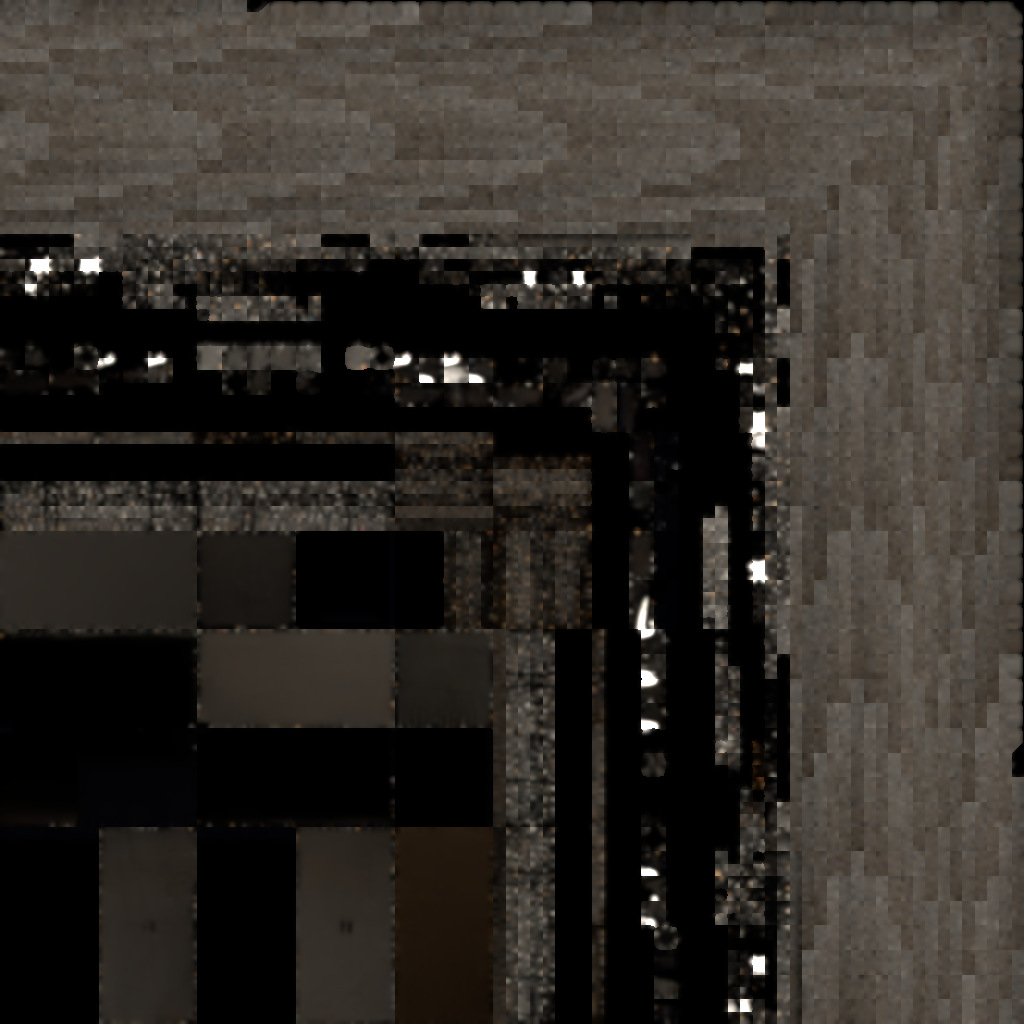
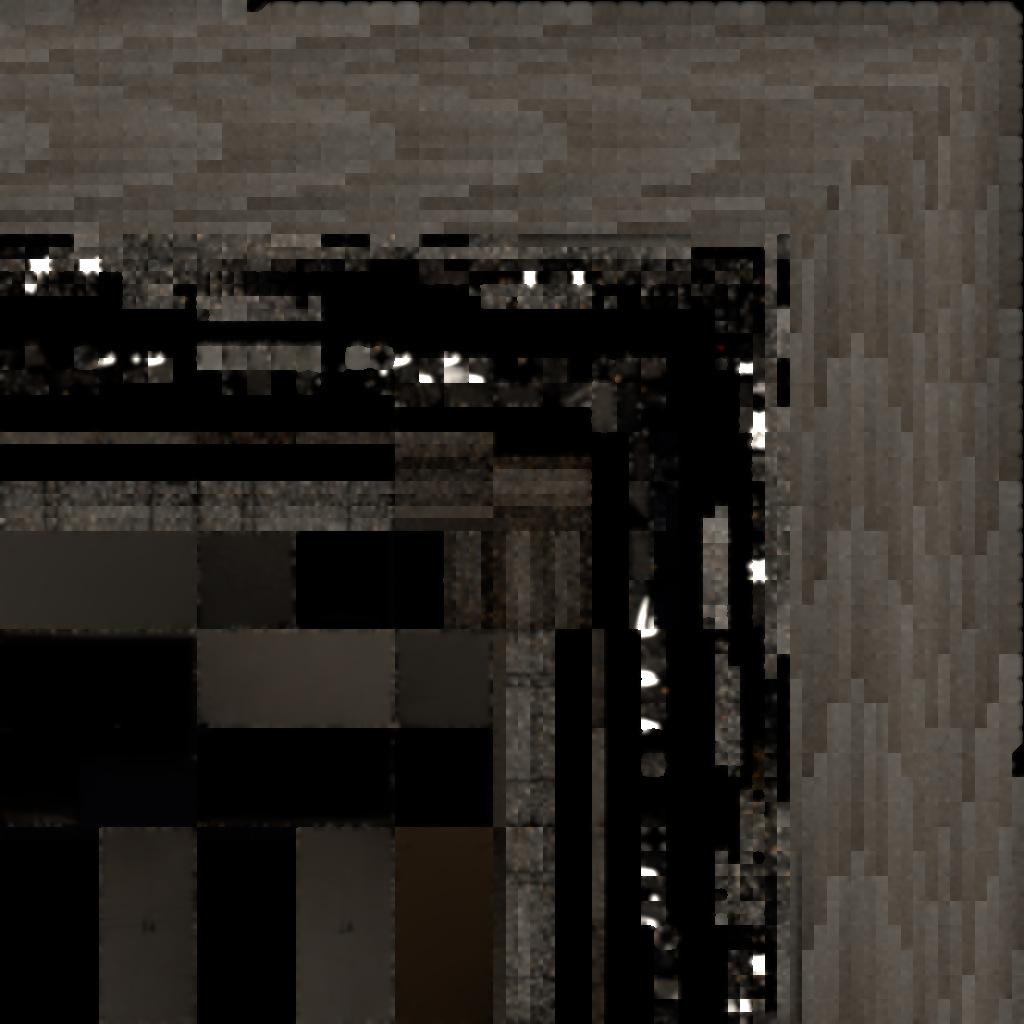
Rebake at 110 spp; walls filtered per UV island at full 2048 res (no more mosaic)
Claude-Session: https://claude.ai/code/session_01BJR4AyphjLcfBT9JN8iViV

diff --git a/room.html b/room.html
@@ -319,7 +319,7 @@ body{color:var(--ink);background:#fff}
 <script>
 (async function(){
 const GATE_TO='';   /* set on a page that should only take the name and then open the full room */
-const OPT='C',ROOMS={C:"room.html"},ASSET='',WORKS_DIR='c/',LAY={"room":{"W":5.6769,"H":3.3655,"LM":8.889999999999999,"CT":0.127,"LK":3.6068,"LT":12.6238,"PASS":1.1,"COVE":0.6,"CYC_FACE":8.889999999999999,"CYC_BACK":9.017,"WINS":[{"cx":0.85,"w":1.3},{"cx":4.57,"w":1.5}],"WB":0.8,"WH":2.2,"ENTRY":{"z0":10.32,"z1":12.25,"h":2.2},"DOOR2":{"z0":10.32,"z1":12.25,"h":2.2},"BLUE":{"x0":0.15,"x1":1.05,"h":2.15},"VANITY_X":3.3,"HANG":1.4478,"TRACK_X":[1.35,4.3269],"TRACK_DZ":10.85,"TRACK_H":3.0655,"PW":[2.54,2.45,0.1]},"works":{"01":{"t":"Eva","s":"Portraits","iw":18,"ih":24,"ow":0.59944,"oh":0.75184},"02":{"t":"Untitled","s":"Portraits","iw":18,"ih":24,"ow":0.59944,"oh":0.75184},"h1":{"t":"Haruma","s":"Portraits","iw":18,"ih":24,"ow":0.59944,"oh":0.75184},"03":{"t":"Odyssey","s":"Odyssey","iw":28,"ih":36,"ow":0.85344,"oh":1.05664},"d1":{"t":"Odyssey","s":"Odyssey","iw":32,"ih":20,"dip":1,"ow":0.95504,"oh":0.65024},"d2":{"t":"Odyssey","s":"Odyssey","iw":32,"ih":20,"dip":1,"ow":0.95504,"oh":0.65024},"d3":{"t":"Odyssey","s":"Odyssey","iw":32,"ih":20,"dip":1,"ow":0.95504,"oh":0.65024},"13":{"t":"Lune Blanche","s":"Lune Blanche","iw":18,"ih":24,"ow":0.59944,"oh":0.75184},"e2":{"t":"Lune Blanche","s":"Lune Blanche","iw":18,"ih":24,"ow":0.59944,"oh":0.75184},"e3":{"t":"Lune Blanche","s":"Lune Blanche","iw":18,"ih":24,"ow":0.59944,"oh":0.75184},"e4":{"t":"Lune Blanche","s":"Lune Blanche","iw":18,"ih":24,"ow":0.59944,"oh":0.75184},"e5":{"t":"Lune Blanche","s":"Lune Blanche","iw":18,"ih":24,"ow":0.59944,"oh":0.75184},"r6":{"t":"Redacted","s":"Redacted","iw":32,"ih":24,"ow":0.95504,"oh":0.75184},"12":{"t":"Redacted","s":"Redacted","iw":18,"ih":24,"ow":0.59944,"oh":0.75184},"rb":{"t":"Redacted","s":"Redacted","iw":18,"ih":24,"ow":0.59944,"oh":0.75184},"rc":{"t":"Redacted","s":"Redacted","iw":18,"ih":24,"ow":0.59944,"oh":0.75184},"rd":{"t":"Redacted","s":"Redacted","iw":18,"ih":24,"ow":0.59944,"oh":0.75184}},"tour":["03","d1","d2","d3","13","e2","e3","e4","e5","r6","rb","12","rc","rd","01","02","h1"],"A":{"name":"A","wall":null,"place":{"01":[1.75,9.017,"s",1.4478],"02":[4.75,9.017,"s",1.4478],"h1":[4.75,12.6238,"n",1.4478],"03":[0.0,8.00328,"e",1.4478],"d1":[0.0,6.85774,"e",1.4478],"d2":[0.0,5.6613999999999995,"e",1.4478],"d3":[0.0,4.465059999999999,"e",1.4478],"13":[2.66,0.0,"s",1.5],"e2":[5.6769,0.95,"w",1.4478],"e3":[5.6769,2.45,"w",1.4478],"e4":[5.6769,3.95,"w",1.4478],"e5":[5.6769,5.45,"w",1.4478],"rb":[4.73761,8.889999999999999,"n",1.4478],"12":[3.83817,8.889999999999999,"n",1.4478],"rc":[2.9387299999999996,8.889999999999999,"n",1.4478],"rd":[2.0392899999999994,8.889999999999999,"n",1.4478],"r6":[5.6769,7.85,"w",1.4478]},"spots":[{"id":"01","pos":[1.75,3.0055,10.85],"target":[1.75,1.3978,9.017]},{"id":"02","pos":[4.75,3.0055,10.85],"target":[4.75,1.3978,9.017]},{"id":"h1","pos":[4.75,3.0055,10.85],"target":[4.75,1.3978,12.6238]},{"id":"03","pos":[1.35,3.0055,8.00328],"target":[0.0,1.3978,8.00328]},{"id":"d1","pos":[1.35,3.0055,6.85774],"target":[0.0,1.3978,6.85774]},{"id":"d2","pos":[1.35,3.0055,5.6613999999999995],"target":[0.0,1.3978,5.6613999999999995]},{"id":"d3","pos":[1.35,3.0055,4.465059999999999],"target":[0.0,1.3978,4.465059999999999]},{"id":"13","pos":[1.35,3.0055,1.45],"target":[2.66,1.45,0.0]},{"id":"e2","pos":[4.3269,3.0055,0.95],"target":[5.6769,1.3978,0.95]},{"id":"e3","pos":[4.3269,3.0055,2.45],"target":[5.6769,1.3978,2.45]},{"id":"e4","pos":[4.3269,3.0055,3.95],"target":[5.6769,1.3978,3.95]},{"id":"e5","pos":[4.3269,3.0055,5.45],"target":[5.6769,1.3978,5.45]},{"id":"rb","pos":[4.3269,3.0055,7.439999999999999],"target":[4.73761,1.3978,8.889999999999999]},{"id":"12","pos":[4.3269,3.0055,7.439999999999999],"target":[3.83817,1.3978,8.889999999999999]},{"id":"rc","pos":[4.3269,3.0055,7.439999999999999],"target":[2.9387299999999996,1.3978,8.889999999999999]},{"id":"rd","pos":[1.35,3.0055,7.439999999999999],"target":[2.0392899999999994,1.3978,8.889999999999999]},{"id":"r6","pos":[4.3269,3.0055,7.85],"target":[5.6769,1.3978,7.85]},{"id":"title0","pos":[1.422,3.0055,10.85],"target":[1.422,1.61,12.6238]},{"id":"title1","pos":[3.078,3.0055,10.85],"target":[3.078,1.61,12.6238]}],"bench":[0.27,1.75,"z"],"title":[0.45,4.05,1.36,1.86],"works":null,"tour":null},"B":{"name":"B","wall":[3.1369,5.6769,3.25,3.3499999999999996],"place":{"01":[1.75,9.017,"s",1.4478],"02":[4.75,9.017,"s",1.4478],"h1":[4.75,12.6238,"n",1.4478],"03":[0.0,8.00328,"e",1.4478],"d1":[0.0,6.85774,"e",1.4478],"d2":[0.0,5.6613999999999995,"e",1.4478],"d3":[0.0,4.465059999999999,"e",1.4478],"13":[2.66,0.0,"s",1.5],"e2":[5.6769,0.95,"w",1.4478],"e3":[5.6769,2.3,"w",1.4478],"e4":[5.0569,3.25,"n",1.4478],"e5":[3.8769,3.25,"n",1.4478],"rb":[4.73761,8.889999999999999,"n",1.4478],"12":[3.83817,8.889999999999999,"n",1.4478],"rc":[2.9387299999999996,8.889999999999999,"n",1.4478],"rd":[2.0392899999999994,8.889999999999999,"n",1.4478],"r6":[5.6769,7.85,"w",1.4478]},"spots":[{"id":"01","pos":[1.75,3.0055,10.85],"target":[1.75,1.3978,9.017]},{"id":"02","pos":[4.75,3.0055,10.85],"target":[4.75,1.3978,9.017]},{"id":"h1","pos":[4.75,3.0055,10.85],"target":[4.75,1.3978,12.6238]},{"id":"03","pos":[1.35,3.0055,8.00328],"target":[0.0,1.3978,8.00328]},{"id":"d1","pos":[1.35,3.0055,6.85774],"target":[0.0,1.3978,6.85774]},{"id":"d2","pos":[1.35,3.0055,5.6613999999999995],"target":[0.0,1.3978,5.6613999999999995]},{"id":"d3","pos":[1.35,3.0055,4.465059999999999],"target":[0.0,1.3978,4.465059999999999]},{"id":"13","pos":[1.35,3.0055,1.45],"target":[2.66,1.45,0.0]},{"id":"e2","pos":[4.3269,3.0055,0.95],"target":[5.6769,1.3978,0.95]},{"id":"e3","pos":[4.3269,3.0055,2.3],"target":[5.6769,1.3978,2.3]},{"id":"e4","pos":[4.3269,3.0055,1.8],"target":[5.0569,1.3978,3.25]},{"id":"e5","pos":[4.3269,3.0055,1.8],"target":[3.8769,1.3978,3.25]},{"id":"rb","pos":[4.3269,3.0055,7.439999999999999],"target":[4.73761,1.3978,8.889999999999999]},{"id":"12","pos":[4.3269,3.0055,7.439999999999999],"target":[3.83817,1.3978,8.889999999999999]},{"id":"rc","pos":[4.3269,3.0055,7.439999999999999],"target":[2.9387299999999996,1.3978,8.889999999999999]},{"id":"rd","pos":[1.35,3.0055,7.439999999999999],"target":[2.0392899999999994,1.3978,8.889999999999999]},{"id":"r6","pos":[4.3269,3.0055,7.85],"target":[5.6769,1.3978,7.85]},{"id":"title0","pos":[1.422,3.0055,10.85],"target":[1.422,1.61,12.6238]},{"id":"title1","pos":[3.078,3.0055,10.85],"target":[3.078,1.61,12.6238]}],"bench":[5.4069,4.75,"z"],"title":[0.45,4.05,1.36,1.86],"works":null,"tour":null},"C":{"name":"C","wall":null,"place":{"01":[1.75,9.017,"s",1.4478],"02":[4.75,9.017,"s",1.4478],"h1":[3.85,12.6238,"n",1.4478],"03":[0.0,8.50328,"e",1.4478],"d1":[0.0,7.35774,"e",1.4478],"d2":[0.0,6.1613999999999995,"e",1.4478],"d3":[0.0,4.965059999999999,"e",1.4478],"13":[2.66,0.0,"s",1.4478],"e2":[5.6769,0.95,"w",1.4478],"e3":[5.6769,2.45,"w",1.4478],"e4":[5.6769,3.95,"w",1.4478],"e5":[5.6769,5.45,"w",1.4478],"rb":[4.62331,8.35,"n",1.4478],"12":[3.8000699999999994,8.35,"n",1.4478],"rc":[2.976829999999999,8.35,"n",1.4478],"rd":[2.153589999999999,8.35,"n",1.4478],"r6":[5.6769,7.85,"w",1.4478]},"spots":[{"id":"01","pos":[1.75,3.0055,10.85],"target":[1.75,1.3978,9.017]},{"id":"02","pos":[4.75,3.0055,10.85],"target":[4.75,1.3978,9.017]},{"id":"h1","pos":[4.75,3.0055,10.85],"target":[4.75,1.3978,12.6238]},{"id":"03","pos":[1.35,3.0055,8.00328],"target":[0.0,1.3978,8.00328]},{"id":"d1","pos":[1.35,3.0055,6.85774],"target":[0.0,1.3978,6.85774]},{"id":"d2","pos":[1.35,3.0055,5.6613999999999995],"target":[0.0,1.3978,5.6613999999999995]},{"id":"d3","pos":[1.35,3.0055,4.465059999999999],"target":[0.0,1.3978,4.465059999999999]},{"id":"13","pos":[1.35,3.0055,1.45],"target":[2.66,1.3978,0.0]},{"id":"e2","pos":[4.3269,3.0055,0.95],"target":[5.6769,1.3978,0.95]},{"id":"e3","pos":[4.3269,3.0055,2.45],"target":[5.6769,1.3978,2.45]},{"id":"e4","pos":[4.3269,3.0055,3.95],"target":[5.6769,1.3978,3.95]},{"id":"e5","pos":[4.3269,3.0055,5.45],"target":[5.6769,1.3978,5.45]},{"id":"rb","pos":[4.3269,3.0055,7.439999999999999],"target":[4.62331,1.3978,8.889999999999999]},{"id":"12","pos":[4.3269,3.0055,7.439999999999999],"target":[3.8000699999999994,1.3978,8.889999999999999]},{"id":"rc","pos":[4.3269,3.0055,7.439999999999999],"target":[2.976829999999999,1.3978,8.889999999999999]},{"id":"rd","pos":[1.35,3.0055,7.439999999999999],"target":[2.153589999999999,1.3978,8.889999999999999]},{"id":"r6","pos":[4.3269,3.0055,7.85],"target":[5.6769,1.3978,7.85]},{"id":"title0","pos":[1.422,3.0055,10.85],"target":[1.422,1.61,12.6238]},{"id":"title1","pos":[3.078,3.0055,10.85],"target":[3.078,1.61,12.6238]}],"bench":null,"title":[1.4205999999999999,1.9794,1.016,1.8796],"works":{"01":{"t":"Eva","s":"Portraits","iw":15,"ih":20,"ow":0.52324,"oh":0.65024},"02":{"t":"Untitled","s":"Portraits","iw":15,"ih":20,"ow":0.52324,"oh":0.65024},"h1":{"t":"Haruma","s":"Portraits","iw":16,"ih":20,"ow":0.54864,"oh":0.65024},"03":{"t":"Odyssey","s":"Odyssey","iw":28,"ih":36,"ow":0.85344,"oh":1.05664},"d1":{"t":"Odyssey","s":"Odyssey","iw":32,"ih":20,"dip":1,"ow":0.95504,"oh":0.65024},"d2":{"t":"Odyssey","s":"Odyssey","iw":32,"ih":20,"dip":1,"ow":0.95504,"oh":0.65024},"d3":{"t":"Odyssey","s":"Odyssey","iw":32,"ih":20,"dip":1,"ow":0.95504,"oh":0.65024},"13":{"t":"Lune Blanche","s":"Lune Blanche","iw":24,"ih":30,"ow":0.75184,"oh":0.90424},"e2":{"t":"Lune Blanche","s":"Lune Blanche","iw":16,"ih":20,"ow":0.54864,"oh":0.65024},"e3":{"t":"Lune Blanche","s":"Lune Blanche","iw":16,"ih":20,"ow":0.54864,"oh":0.65024},"e4":{"t":"Lune Blanche","s":"Lune Blanche","iw":16,"ih":20,"ow":0.54864,"oh":0.65024},"e5":{"t":"Lune Blanche","s":"Lune Blanche","iw":16,"ih":20,"ow":0.54864,"oh":0.65024},"r6":{"t":"Redacted","s":"Redacted","iw":26.667,"ih":20,"ow":0.8195818,"oh":0.65024},"12":{"t":"Redacted","s":"Redacted","iw":15,"ih":20,"ow":0.52324,"oh":0.65024},"rb":{"t":"Redacted","s":"Redacted","iw":15,"ih":20,"ow":0.52324,"oh":0.65024},"rc":{"t":"Redacted","s":"Redacted","iw":15,"ih":20,"ow":0.52324,"oh":0.65024},"rd":{"t":"Redacted","s":"Redacted","iw":15,"ih":20,"ow":0.52324,"oh":0.65024}},"tour":null,"gb":null,"hung":["rb","12","rc","rd"],"pipe":{"z":8.35,"h":2.9},"obs":[[4.3869,5.6769,11.3338,12.6238],[0,0.64,0,1.93],[0.42,1.48,0.42,1.48],[1.2999999999999998,2.1,1.21,3.09]]}},LMK=5.0254;
+const OPT='C',ROOMS={C:"room.html"},ASSET='',WORKS_DIR='c/',LAY={"room":{"W":5.6769,"H":3.3655,"LM":8.889999999999999,"CT":0.127,"LK":3.6068,"LT":12.6238,"PASS":1.1,"COVE":0.6,"CYC_FACE":8.889999999999999,"CYC_BACK":9.017,"WINS":[{"cx":0.85,"w":1.3},{"cx":4.57,"w":1.5}],"WB":0.8,"WH":2.2,"ENTRY":{"z0":10.32,"z1":12.25,"h":2.2},"DOOR2":{"z0":10.32,"z1":12.25,"h":2.2},"BLUE":{"x0":0.15,"x1":1.05,"h":2.15},"VANITY_X":3.3,"HANG":1.4478,"TRACK_X":[1.35,4.3269],"TRACK_DZ":10.85,"TRACK_H":3.0655,"PW":[2.54,2.45,0.1]},"works":{"01":{"t":"Eva","s":"Portraits","iw":18,"ih":24,"ow":0.59944,"oh":0.75184},"02":{"t":"Untitled","s":"Portraits","iw":18,"ih":24,"ow":0.59944,"oh":0.75184},"h1":{"t":"Haruma","s":"Portraits","iw":18,"ih":24,"ow":0.59944,"oh":0.75184},"03":{"t":"Odyssey","s":"Odyssey","iw":28,"ih":36,"ow":0.85344,"oh":1.05664},"d1":{"t":"Odyssey","s":"Odyssey","iw":32,"ih":20,"dip":1,"ow":0.95504,"oh":0.65024},"d2":{"t":"Odyssey","s":"Odyssey","iw":32,"ih":20,"dip":1,"ow":0.95504,"oh":0.65024},"d3":{"t":"Odyssey","s":"Odyssey","iw":32,"ih":20,"dip":1,"ow":0.95504,"oh":0.65024},"13":{"t":"Lune Blanche","s":"Lune Blanche","iw":18,"ih":24,"ow":0.59944,"oh":0.75184},"e2":{"t":"Lune Blanche","s":"Lune Blanche","iw":18,"ih":24,"ow":0.59944,"oh":0.75184},"e3":{"t":"Lune Blanche","s":"Lune Blanche","iw":18,"ih":24,"ow":0.59944,"oh":0.75184},"e4":{"t":"Lune Blanche","s":"Lune Blanche","iw":18,"ih":24,"ow":0.59944,"oh":0.75184},"e5":{"t":"Lune Blanche","s":"Lune Blanche","iw":18,"ih":24,"ow":0.59944,"oh":0.75184},"r6":{"t":"Redacted","s":"Redacted","iw":32,"ih":24,"ow":0.95504,"oh":0.75184},"12":{"t":"Redacted","s":"Redacted","iw":18,"ih":24,"ow":0.59944,"oh":0.75184},"rb":{"t":"Redacted","s":"Redacted","iw":18,"ih":24,"ow":0.59944,"oh":0.75184},"rc":{"t":"Redacted","s":"Redacted","iw":18,"ih":24,"ow":0.59944,"oh":0.75184},"rd":{"t":"Redacted","s":"Redacted","iw":18,"ih":24,"ow":0.59944,"oh":0.75184}},"tour":["03","d1","d2","d3","13","e2","e3","e4","e5","r6","rb","12","rc","rd","01","02","h1"],"A":{"name":"A","wall":null,"place":{"01":[1.75,9.017,"s",1.4478],"02":[4.75,9.017,"s",1.4478],"h1":[4.75,12.6238,"n",1.4478],"03":[0.0,8.00328,"e",1.4478],"d1":[0.0,6.85774,"e",1.4478],"d2":[0.0,5.6613999999999995,"e",1.4478],"d3":[0.0,4.465059999999999,"e",1.4478],"13":[2.66,0.0,"s",1.5],"e2":[5.6769,0.95,"w",1.4478],"e3":[5.6769,2.45,"w",1.4478],"e4":[5.6769,3.95,"w",1.4478],"e5":[5.6769,5.45,"w",1.4478],"rb":[4.73761,8.889999999999999,"n",1.4478],"12":[3.83817,8.889999999999999,"n",1.4478],"rc":[2.9387299999999996,8.889999999999999,"n",1.4478],"rd":[2.0392899999999994,8.889999999999999,"n",1.4478],"r6":[5.6769,7.85,"w",1.4478]},"spots":[{"id":"01","pos":[1.75,3.0055,10.85],"target":[1.75,1.3978,9.017]},{"id":"02","pos":[4.75,3.0055,10.85],"target":[4.75,1.3978,9.017]},{"id":"h1","pos":[4.75,3.0055,10.85],"target":[4.75,1.3978,12.6238]},{"id":"03","pos":[1.35,3.0055,8.00328],"target":[0.0,1.3978,8.00328]},{"id":"d1","pos":[1.35,3.0055,6.85774],"target":[0.0,1.3978,6.85774]},{"id":"d2","pos":[1.35,3.0055,5.6613999999999995],"target":[0.0,1.3978,5.6613999999999995]},{"id":"d3","pos":[1.35,3.0055,4.465059999999999],"target":[0.0,1.3978,4.465059999999999]},{"id":"13","pos":[1.35,3.0055,1.45],"target":[2.66,1.45,0.0]},{"id":"e2","pos":[4.3269,3.0055,0.95],"target":[5.6769,1.3978,0.95]},{"id":"e3","pos":[4.3269,3.0055,2.45],"target":[5.6769,1.3978,2.45]},{"id":"e4","pos":[4.3269,3.0055,3.95],"target":[5.6769,1.3978,3.95]},{"id":"e5","pos":[4.3269,3.0055,5.45],"target":[5.6769,1.3978,5.45]},{"id":"rb","pos":[4.3269,3.0055,7.439999999999999],"target":[4.73761,1.3978,8.889999999999999]},{"id":"12","pos":[4.3269,3.0055,7.439999999999999],"target":[3.83817,1.3978,8.889999999999999]},{"id":"rc","pos":[4.3269,3.0055,7.439999999999999],"target":[2.9387299999999996,1.3978,8.889999999999999]},{"id":"rd","pos":[1.35,3.0055,7.439999999999999],"target":[2.0392899999999994,1.3978,8.889999999999999]},{"id":"r6","pos":[4.3269,3.0055,7.85],"target":[5.6769,1.3978,7.85]},{"id":"title0","pos":[1.422,3.0055,10.85],"target":[1.422,1.61,12.6238]},{"id":"title1","pos":[3.078,3.0055,10.85],"target":[3.078,1.61,12.6238]}],"bench":[0.27,1.75,"z"],"title":[0.45,4.05,1.36,1.86],"works":null,"tour":null},"B":{"name":"B","wall":[3.1369,5.6769,3.25,3.3499999999999996],"place":{"01":[1.75,9.017,"s",1.4478],"02":[4.75,9.017,"s",1.4478],"h1":[4.75,12.6238,"n",1.4478],"03":[0.0,8.00328,"e",1.4478],"d1":[0.0,6.85774,"e",1.4478],"d2":[0.0,5.6613999999999995,"e",1.4478],"d3":[0.0,4.465059999999999,"e",1.4478],"13":[2.66,0.0,"s",1.5],"e2":[5.6769,0.95,"w",1.4478],"e3":[5.6769,2.3,"w",1.4478],"e4":[5.0569,3.25,"n",1.4478],"e5":[3.8769,3.25,"n",1.4478],"rb":[4.73761,8.889999999999999,"n",1.4478],"12":[3.83817,8.889999999999999,"n",1.4478],"rc":[2.9387299999999996,8.889999999999999,"n",1.4478],"rd":[2.0392899999999994,8.889999999999999,"n",1.4478],"r6":[5.6769,7.85,"w",1.4478]},"spots":[{"id":"01","pos":[1.75,3.0055,10.85],"target":[1.75,1.3978,9.017]},{"id":"02","pos":[4.75,3.0055,10.85],"target":[4.75,1.3978,9.017]},{"id":"h1","pos":[4.75,3.0055,10.85],"target":[4.75,1.3978,12.6238]},{"id":"03","pos":[1.35,3.0055,8.00328],"target":[0.0,1.3978,8.00328]},{"id":"d1","pos":[1.35,3.0055,6.85774],"target":[0.0,1.3978,6.85774]},{"id":"d2","pos":[1.35,3.0055,5.6613999999999995],"target":[0.0,1.3978,5.6613999999999995]},{"id":"d3","pos":[1.35,3.0055,4.465059999999999],"target":[0.0,1.3978,4.465059999999999]},{"id":"13","pos":[1.35,3.0055,1.45],"target":[2.66,1.45,0.0]},{"id":"e2","pos":[4.3269,3.0055,0.95],"target":[5.6769,1.3978,0.95]},{"id":"e3","pos":[4.3269,3.0055,2.3],"target":[5.6769,1.3978,2.3]},{"id":"e4","pos":[4.3269,3.0055,1.8],"target":[5.0569,1.3978,3.25]},{"id":"e5","pos":[4.3269,3.0055,1.8],"target":[3.8769,1.3978,3.25]},{"id":"rb","pos":[4.3269,3.0055,7.439999999999999],"target":[4.73761,1.3978,8.889999999999999]},{"id":"12","pos":[4.3269,3.0055,7.439999999999999],"target":[3.83817,1.3978,8.889999999999999]},{"id":"rc","pos":[4.3269,3.0055,7.439999999999999],"target":[2.9387299999999996,1.3978,8.889999999999999]},{"id":"rd","pos":[1.35,3.0055,7.439999999999999],"target":[2.0392899999999994,1.3978,8.889999999999999]},{"id":"r6","pos":[4.3269,3.0055,7.85],"target":[5.6769,1.3978,7.85]},{"id":"title0","pos":[1.422,3.0055,10.85],"target":[1.422,1.61,12.6238]},{"id":"title1","pos":[3.078,3.0055,10.85],"target":[3.078,1.61,12.6238]}],"bench":[5.4069,4.75,"z"],"title":[0.45,4.05,1.36,1.86],"works":null,"tour":null},"C":{"name":"C","wall":null,"place":{"01":[1.75,9.017,"s",1.4478],"02":[4.75,9.017,"s",1.4478],"h1":[3.85,12.6238,"n",1.4478],"03":[0.0,8.50328,"e",1.4478],"d1":[0.0,7.35774,"e",1.4478],"d2":[0.0,6.1613999999999995,"e",1.4478],"d3":[0.0,4.965059999999999,"e",1.4478],"13":[2.66,0.0,"s",1.4478],"e2":[5.6769,0.95,"w",1.4478],"e3":[5.6769,2.45,"w",1.4478],"e4":[5.6769,3.95,"w",1.4478],"e5":[5.6769,5.45,"w",1.4478],"rb":[4.62331,8.35,"n",1.4478],"12":[3.8000699999999994,8.35,"n",1.4478],"rc":[2.976829999999999,8.35,"n",1.4478],"rd":[2.153589999999999,8.35,"n",1.4478],"r6":[5.6769,7.85,"w",1.4478]},"spots":[{"id":"01","pos":[1.75,3.0055,10.85],"target":[1.75,1.3978,9.017]},{"id":"02","pos":[4.75,3.0055,10.85],"target":[4.75,1.3978,9.017]},{"id":"h1","pos":[4.75,3.0055,10.85],"target":[4.75,1.3978,12.6238]},{"id":"03","pos":[1.35,3.0055,8.00328],"target":[0.0,1.3978,8.00328]},{"id":"d1","pos":[1.35,3.0055,6.85774],"target":[0.0,1.3978,6.85774]},{"id":"d2","pos":[1.35,3.0055,5.6613999999999995],"target":[0.0,1.3978,5.6613999999999995]},{"id":"d3","pos":[1.35,3.0055,4.465059999999999],"target":[0.0,1.3978,4.465059999999999]},{"id":"13","pos":[1.35,3.0055,1.45],"target":[2.66,1.3978,0.0]},{"id":"e2","pos":[4.3269,3.0055,0.95],"target":[5.6769,1.3978,0.95]},{"id":"e3","pos":[4.3269,3.0055,2.45],"target":[5.6769,1.3978,2.45]},{"id":"e4","pos":[4.3269,3.0055,3.95],"target":[5.6769,1.3978,3.95]},{"id":"e5","pos":[4.3269,3.0055,5.45],"target":[5.6769,1.3978,5.45]},{"id":"rb","pos":[4.3269,3.0055,7.439999999999999],"target":[4.62331,1.3978,8.889999999999999]},{"id":"12","pos":[4.3269,3.0055,7.439999999999999],"target":[3.8000699999999994,1.3978,8.889999999999999]},{"id":"rc","pos":[4.3269,3.0055,7.439999999999999],"target":[2.976829999999999,1.3978,8.889999999999999]},{"id":"rd","pos":[1.35,3.0055,7.439999999999999],"target":[2.153589999999999,1.3978,8.889999999999999]},{"id":"r6","pos":[4.3269,3.0055,7.85],"target":[5.6769,1.3978,7.85]},{"id":"title0","pos":[1.422,3.0055,10.85],"target":[1.422,1.61,12.6238]},{"id":"title1","pos":[3.078,3.0055,10.85],"target":[3.078,1.61,12.6238]}],"bench":null,"title":[1.4205999999999999,1.9794,1.016,1.8796],"works":{"01":{"t":"Eva","s":"Portraits","iw":15,"ih":20,"ow":0.52324,"oh":0.65024},"02":{"t":"Untitled","s":"Portraits","iw":15,"ih":20,"ow":0.52324,"oh":0.65024},"h1":{"t":"Haruma","s":"Portraits","iw":16,"ih":20,"ow":0.54864,"oh":0.65024},"03":{"t":"Odyssey","s":"Odyssey","iw":28,"ih":36,"ow":0.85344,"oh":1.05664},"d1":{"t":"Odyssey","s":"Odyssey","iw":32,"ih":20,"dip":1,"ow":0.95504,"oh":0.65024},"d2":{"t":"Odyssey","s":"Odyssey","iw":32,"ih":20,"dip":1,"ow":0.95504,"oh":0.65024},"d3":{"t":"Odyssey","s":"Odyssey","iw":32,"ih":20,"dip":1,"ow":0.95504,"oh":0.65024},"13":{"t":"Lune Blanche","s":"Lune Blanche","iw":24,"ih":30,"ow":0.75184,"oh":0.90424},"e2":{"t":"Lune Blanche","s":"Lune Blanche","iw":16,"ih":20,"ow":0.54864,"oh":0.65024},"e3":{"t":"Lune Blanche","s":"Lune Blanche","iw":16,"ih":20,"ow":0.54864,"oh":0.65024},"e4":{"t":"Lune Blanche","s":"Lune Blanche","iw":16,"ih":20,"ow":0.54864,"oh":0.65024},"e5":{"t":"Lune Blanche","s":"Lune Blanche","iw":16,"ih":20,"ow":0.54864,"oh":0.65024},"r6":{"t":"Redacted","s":"Redacted","iw":26.667,"ih":20,"ow":0.8195818,"oh":0.65024},"12":{"t":"Redacted","s":"Redacted","iw":15,"ih":20,"ow":0.52324,"oh":0.65024},"rb":{"t":"Redacted","s":"Redacted","iw":15,"ih":20,"ow":0.52324,"oh":0.65024},"rc":{"t":"Redacted","s":"Redacted","iw":15,"ih":20,"ow":0.52324,"oh":0.65024},"rd":{"t":"Redacted","s":"Redacted","iw":15,"ih":20,"ow":0.52324,"oh":0.65024}},"tour":null,"gb":null,"hung":["rb","12","rc","rd"],"pipe":{"z":8.35,"h":2.9},"obs":[[4.3869,5.6769,11.3338,12.6238],[0,0.64,0,1.93],[0.42,1.48,0.42,1.48],[1.2999999999999998,2.1,1.21,3.09]]}},LMK=5.2752;
 const $=s=>document.querySelector(s);
 const reduceMotion=matchMedia('(prefers-reduced-motion: reduce)').matches;
 const coarse=matchMedia('(pointer: coarse)').matches;
@@ -383,7 +383,7 @@ function cityCanvas(){const w=2048,h=512,c=mk(w,h),g=c.getContext('2d');let x=0;
 const city=new THREE.Mesh(new THREE.PlaneGeometry(110,26),new THREE.MeshBasicMaterial({map:T(cityCanvas()),transparent:true}));city.position.set(0,-7,-46);scene.add(city);
 
 /* ================= room: measured model from Blender, lighting baked into a lightmap ================= */
-const texL=new THREE.TextureLoader();const AV='?b=1793785637';
+const texL=new THREE.TextureLoader();const AV='?b=1793787706';
 function tex(u){const t=texL.load(u);t.encoding=THREE.sRGBEncoding;t.wrapS=t.wrapT=THREE.RepeatWrapping;t.anisotropy=maxAniso;t.flipY=false;return t}
 const lmTex=texL.load(ASSET+'lm_'+OPT.toLowerCase()+'.jpg'+AV,()=>{roomParts++;setLoading()});lmTex.encoding=THREE.sRGBEncoding;lmTex.flipY=false;lmTex.anisotropy=maxAniso;
 const ALBEDO={floor_maple:'maple.jpg',ceiling_tin:'tin.jpg',brick_painted:'brick.jpg',wall_plaster:'plaster.jpg',portable_wall:'plaster.jpg'};
